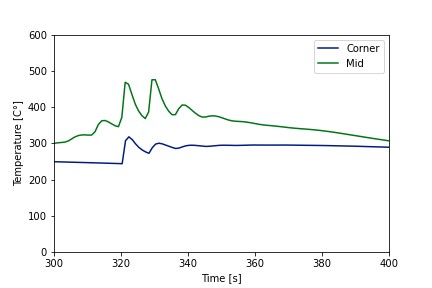
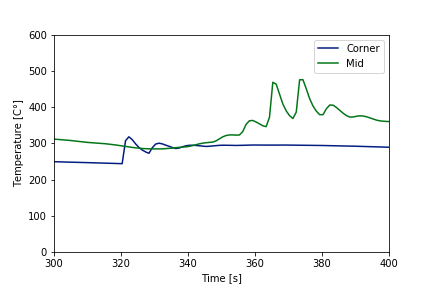
.

diff --git a/Abaqus/post_processing.py b/Abaqus/post_processing.py
@@ -74,7 +74,7 @@ def main():
     temp_raster_corner = [x[1] for x in raster_corner]
     raster_mid = raster.get_node_data('mid')
     time_offset = time_normalize_data(raster_mid)
-    t_raster_mid = [x[0]-time_offset for x in raster_mid]
+    t_raster_mid = [x[0] for x in raster_mid]
     temp_raster_mid = [x[1] for x in raster_mid]
 
     degree_sign= u'\N{DEGREE SIGN}'
